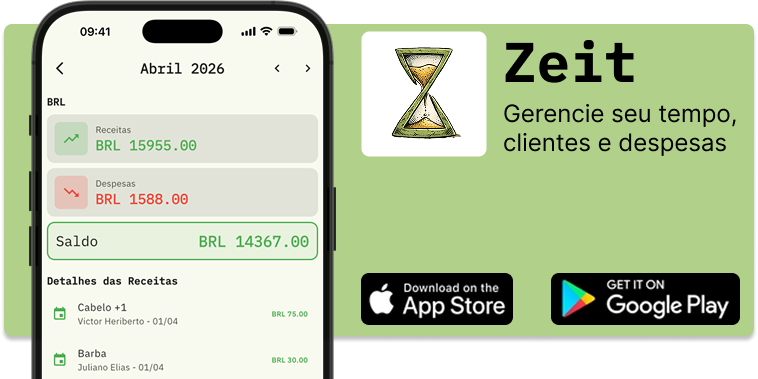
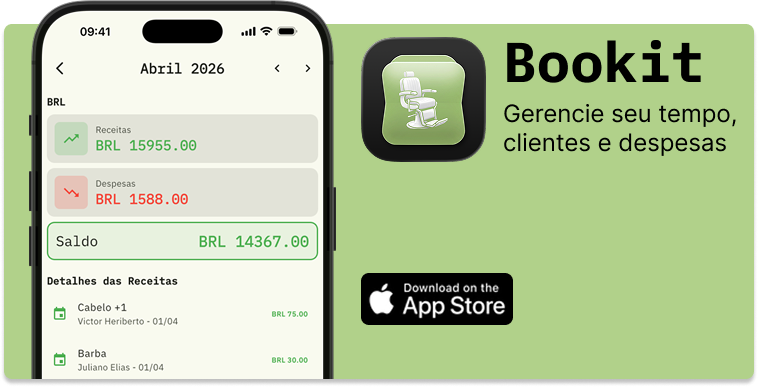
update app details and assets for Bookit, replace invoicing screenshot, and modify layout styles

diff --git a/_sass/layout.scss b/_sass/layout.scss
@@ -380,27 +380,16 @@ nav > ul li a:active {
 
 .iphonePreview {
 	grid-area: p;
-	background-image: url($device-color);
-	background-size: 400px auto;
-	background-repeat: no-repeat;
 	margin-top: 68px;
 }
 
 .iphoneScreen {
 	width: 349px;
-	-webkit-clip-path: url(#screenMask);
-	clip-path: url(#screenMask);
-	margin-left: 26px;
-	margin-top: 23px;
 }
 
 .videoContainer {
 	width: 349px;
 	height: 755px;
-	-webkit-clip-path: url(#screenMask);
-	clip-path: url(#screenMask);
-	margin-left: 26px;
-	margin-top: 23px;
 }
 
 .videoContainer > video {
@@ -410,21 +399,13 @@ nav > ul li a:active {
 
 @media only screen and (max-width: 1070px) {
 
-	.iphonePreview {
-		background-size: 370px auto;
-	}
-
 	.iphoneScreen {
 		width: 322px;
-		margin-left: 24px;
-		margin-top: 22px;
 	}
 
 	.videoContainer {
 		width: 322px;
 		height: 698px;
-		margin-left: 24px;
-		margin-top: 22px;
 	}
 	
 	.videoContainer > video {
@@ -438,8 +419,6 @@ nav > ul li a:active {
 
 	.iphonePreview {
 		display: flex;
-		background-size: 260px auto;
-		background-position: center 0;
 		margin-top: 47px;
 		justify-content: center;
 		padding-bottom: 75px;
@@ -448,17 +427,11 @@ nav > ul li a:active {
 	.iphoneScreen {
 		width: 226px;
 		height: 488px;
-		-webkit-clip-path: url(#screenMask);
-		clip-path: url(#screenMask);
-		margin: 0px;
-		margin-top: 17px;
 	}
 
 	.videoContainer {
 		width: 226px;
 		height: 488px;
-		margin-left: 0px;
-		margin-top: 17px;
 	}
 
 	.videoContainer > video {
